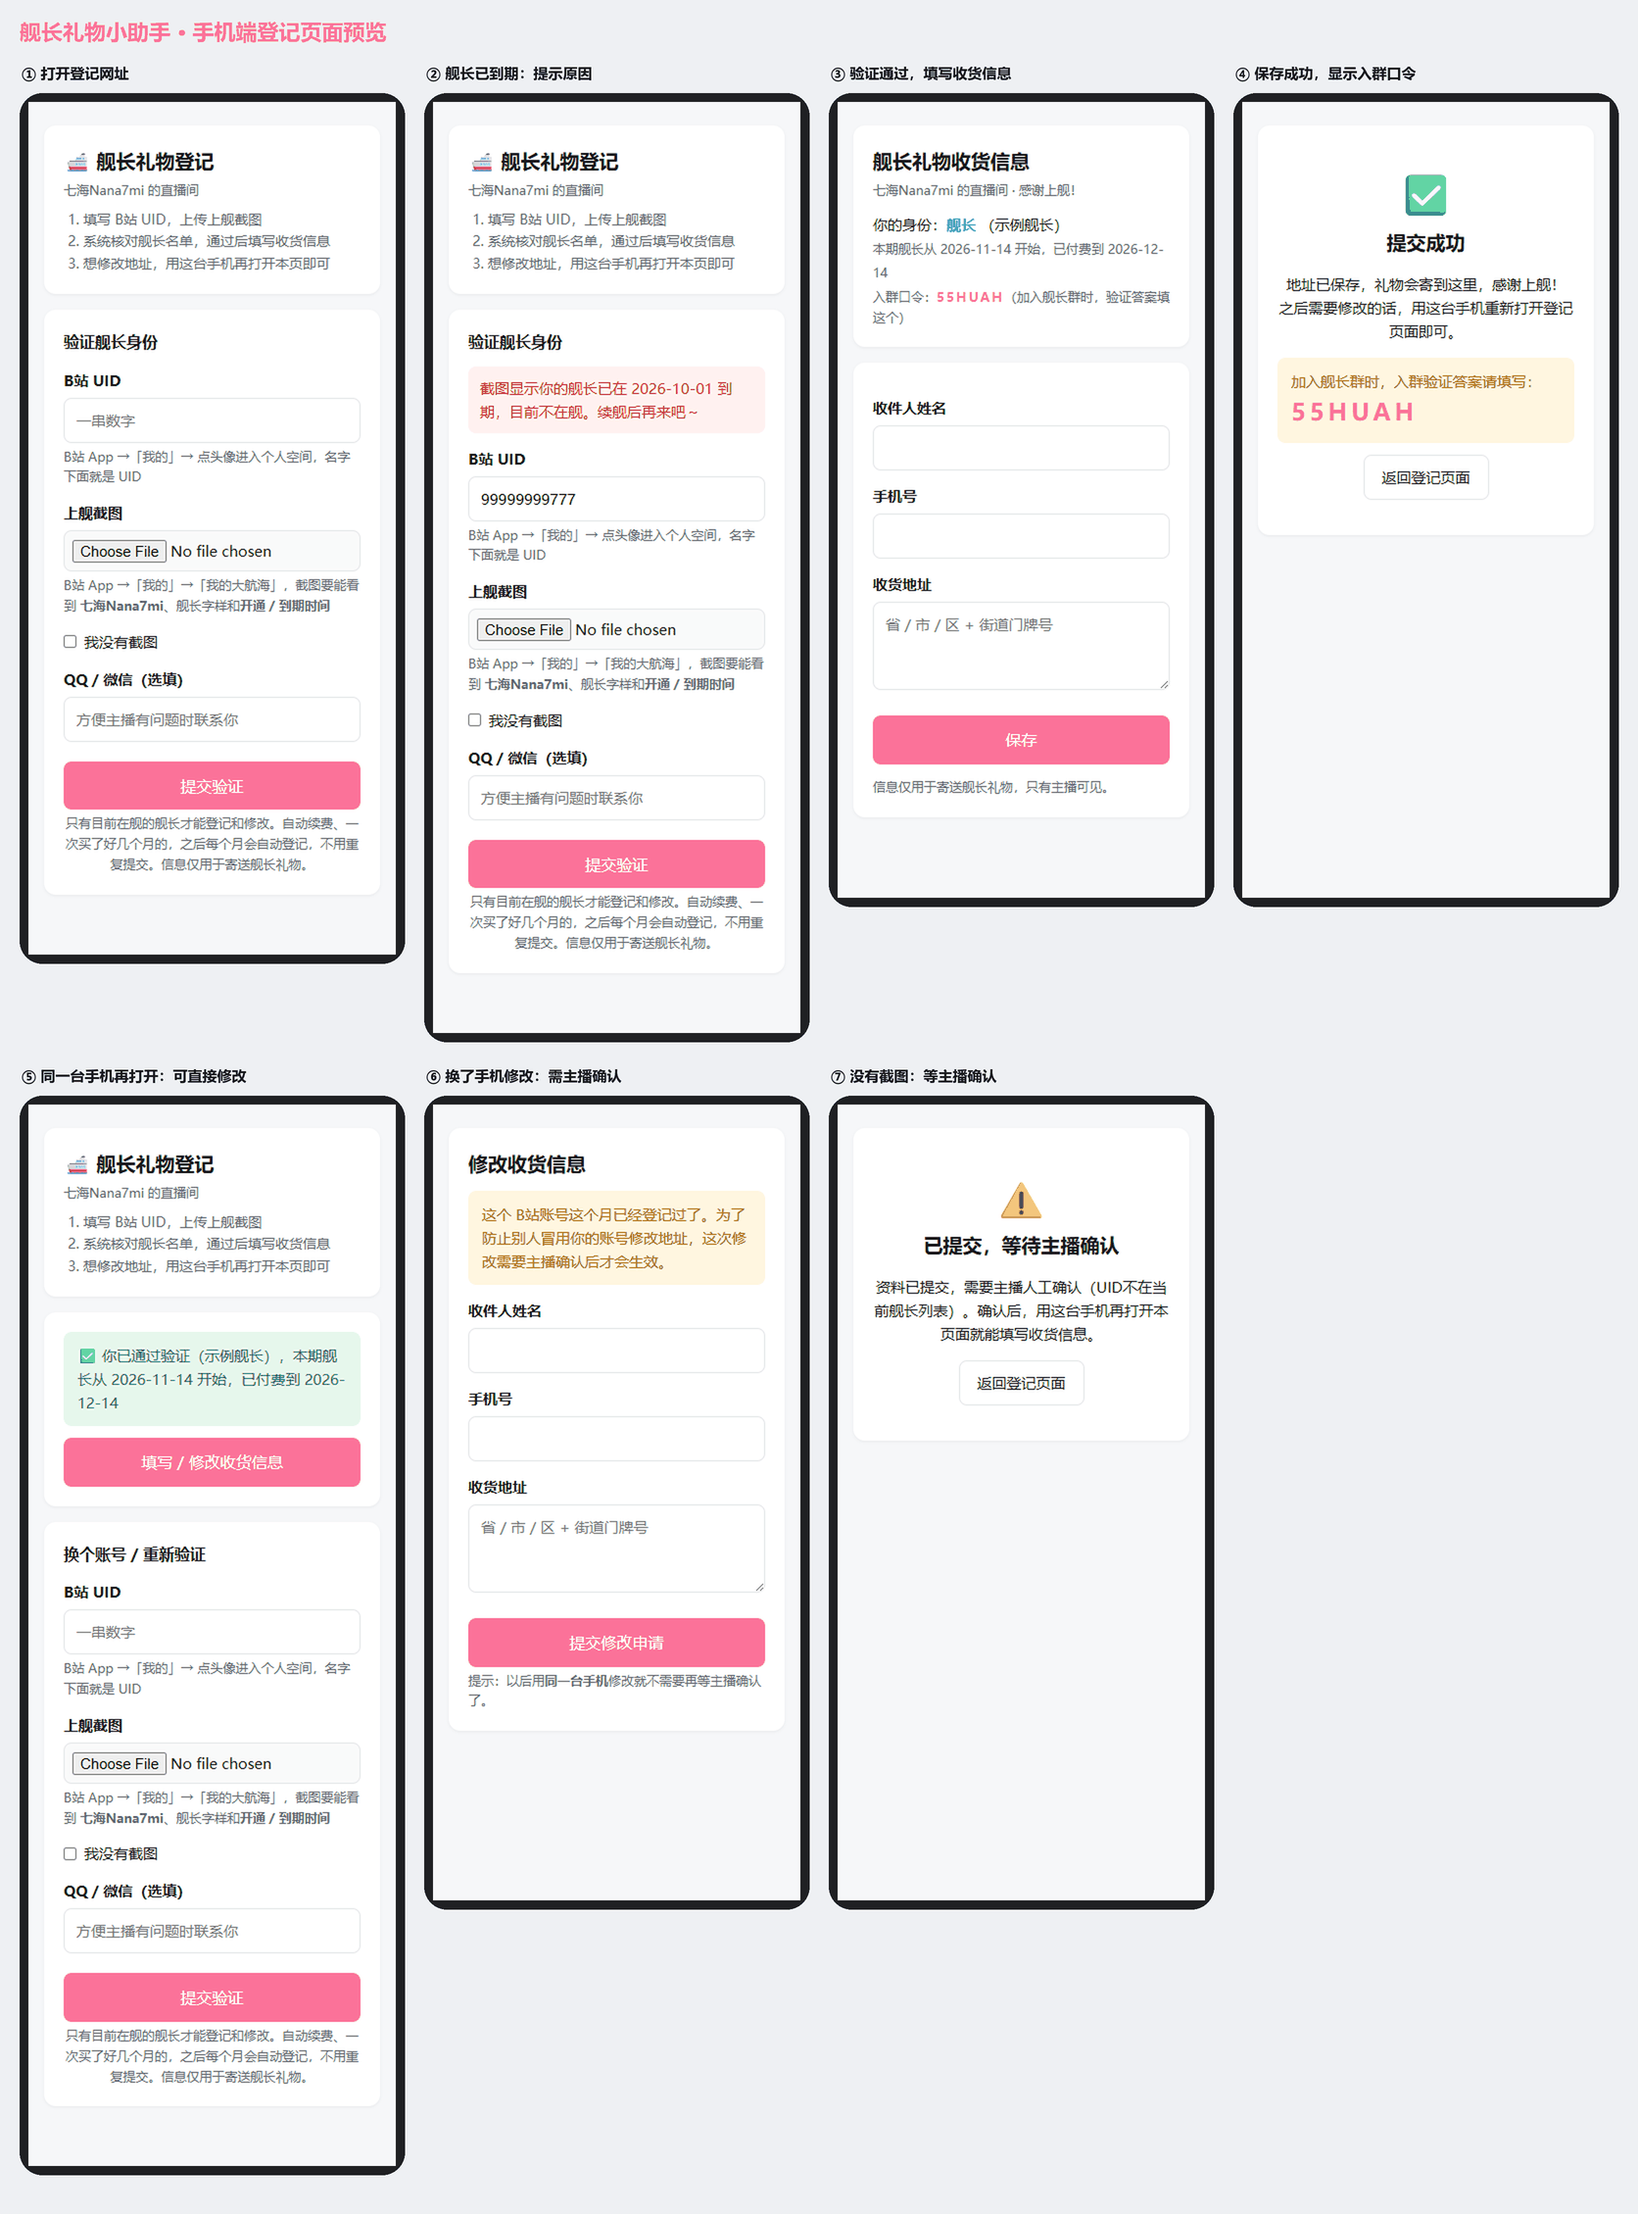
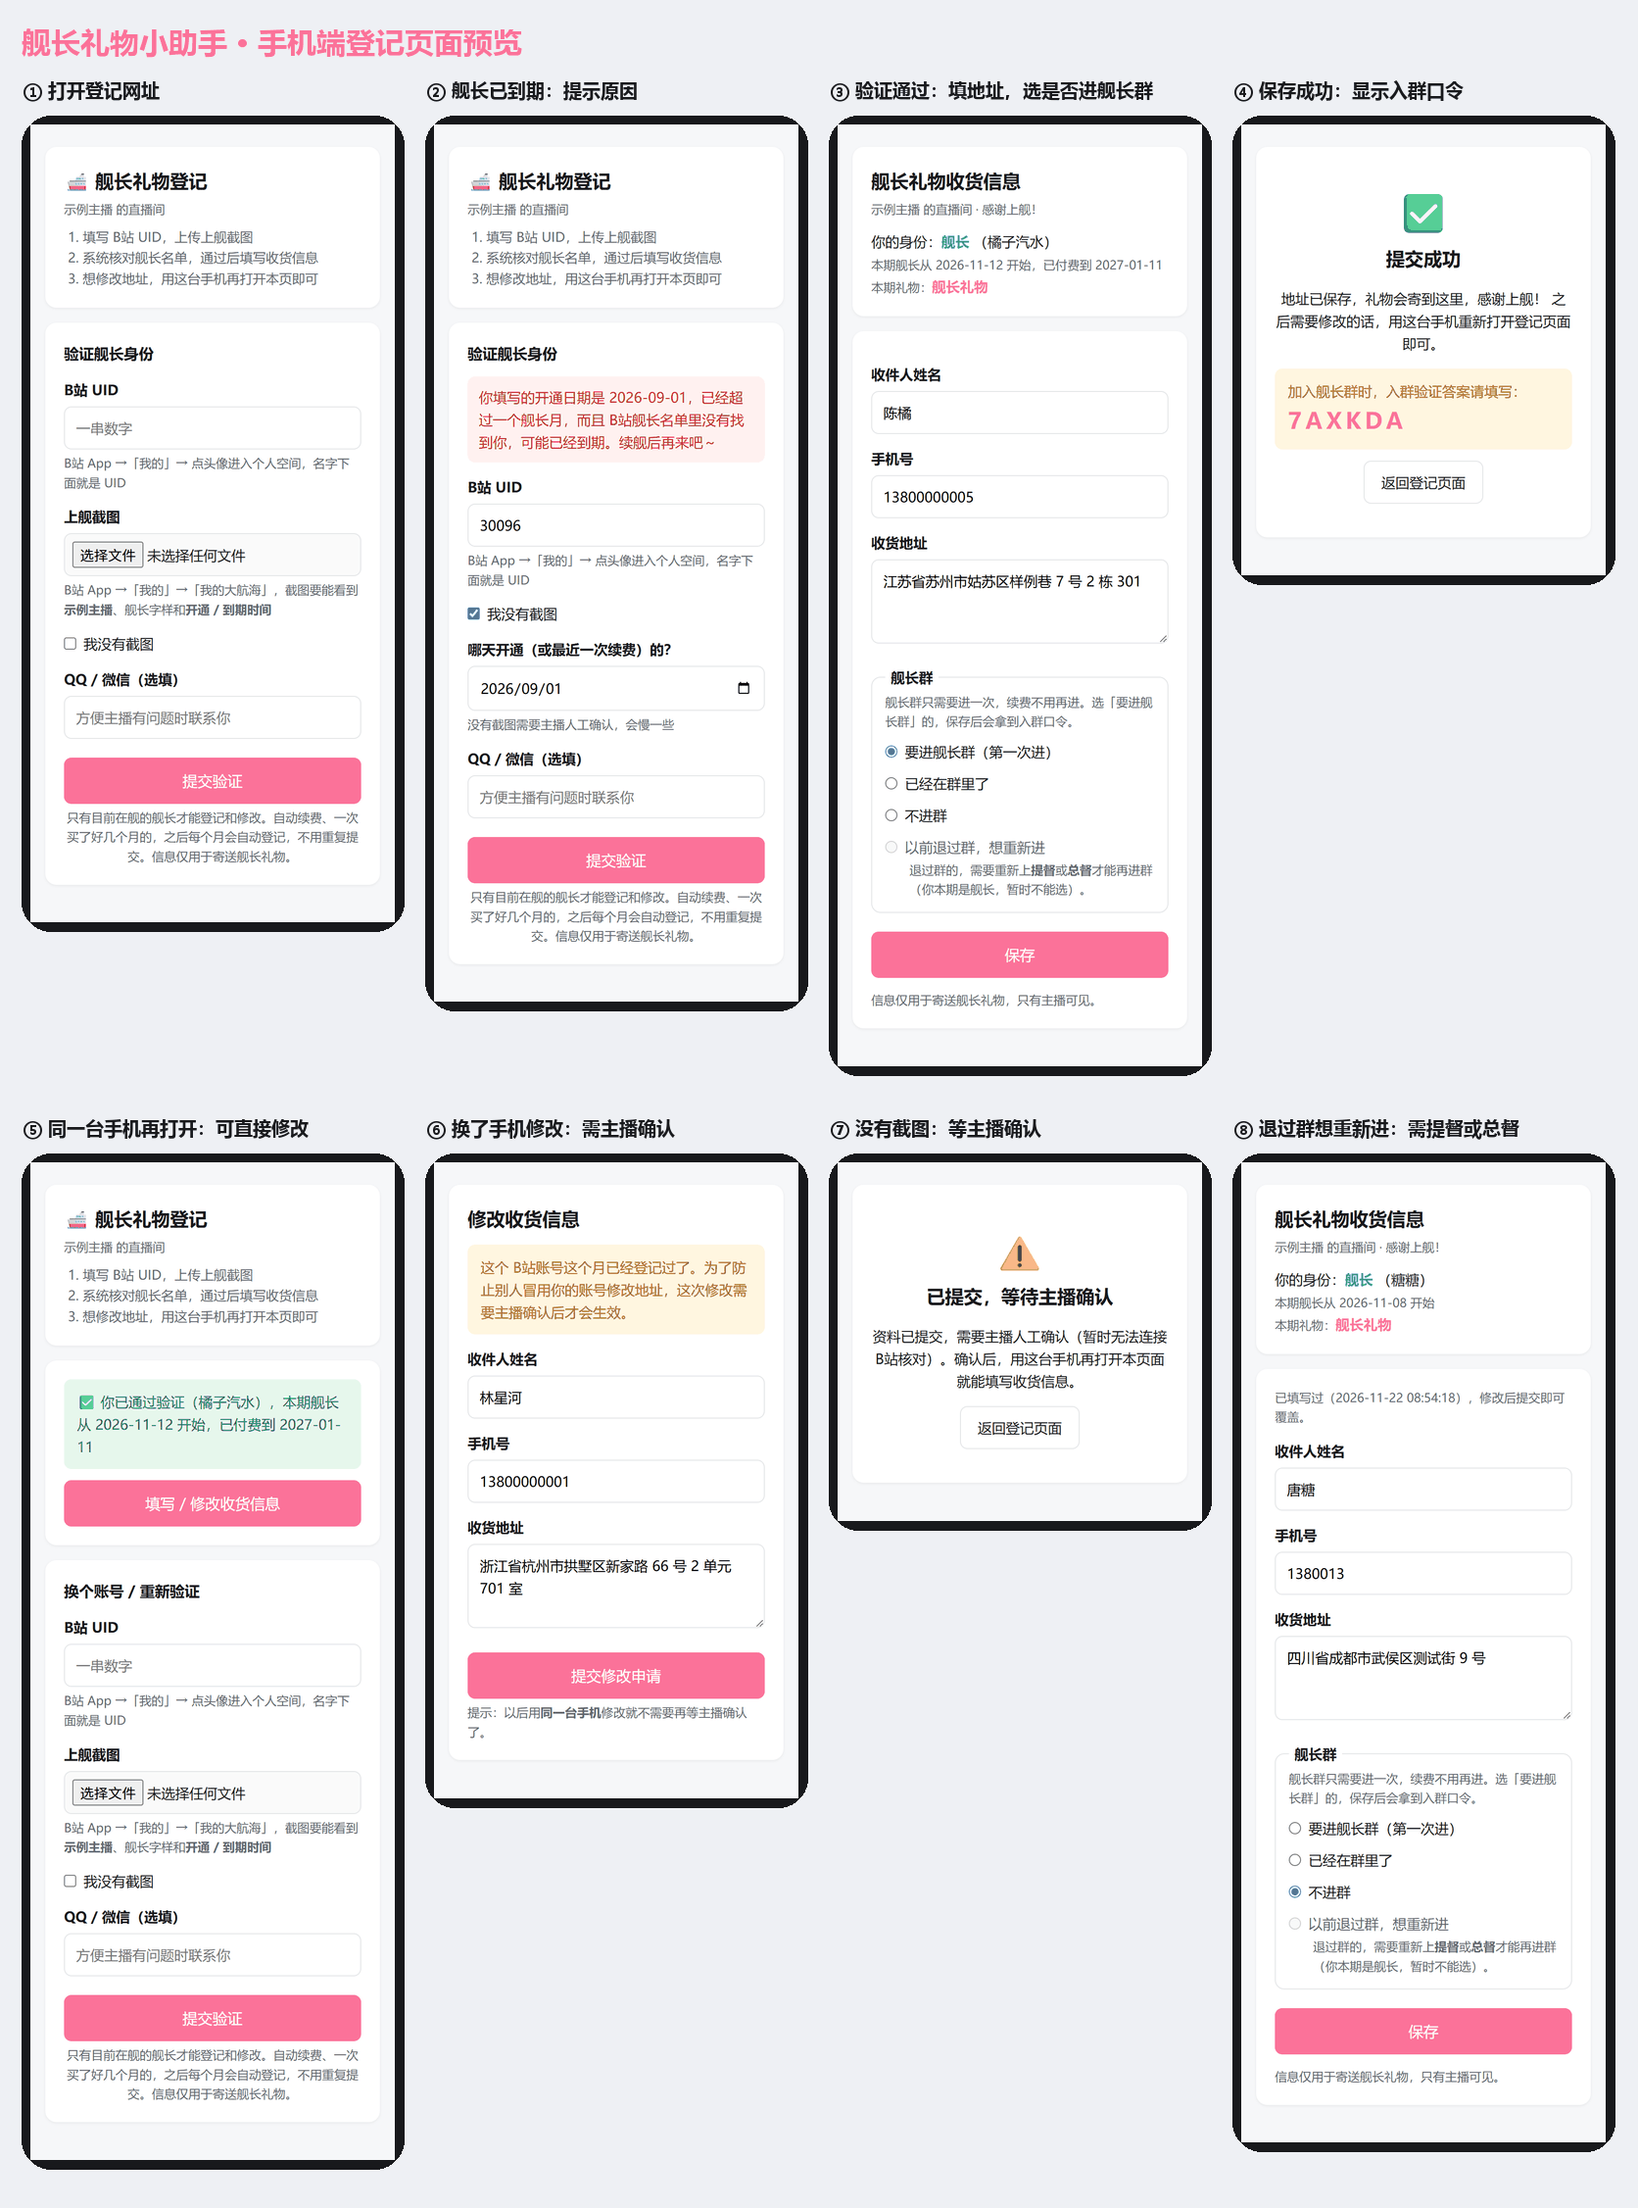
README：更新手机端登记页面预览（含舰长群选项）
重新截图：用「示例主播」和虚构数据，加入「选是否进舰长群」和「退过群想重新进需提督或总督」两个画面。

diff --git a/README.md b/README.md
@@ -45,7 +45,7 @@ https://github.com/user-attachments/assets/5a1fcd63-0944-462a-b905-8c7d06880570
 
 **手机上实际看到的页面**（点图片可以放大）：
 
-![手机端登记页面预览：① 打开登记网址 ② 舰长已到期时的提示 ③ 验证通过后填写收货信息（显示本期和已付费到哪天） ④ 保存成功并显示入群口令 ⑤ 同一台手机再打开可直接修改 ⑥ 换手机修改需主播确认 ⑦ 没有截图时等待主播确认](docs/phone-preview.png)
+![手机端登记页面预览：① 打开登记网址 ② 舰长已到期时的提示 ③ 验证通过后填写收货信息、选择是否进舰长群 ④ 保存成功并显示入群口令 ⑤ 同一台手机再打开可直接修改 ⑥ 换手机修改需主播确认 ⑦ 没有截图时等待主播确认 ⑧ 舰长不能选「退过群，想重新进」（需提督或总督）](docs/phone-preview.png)
 
 ### 自动续费、一次买好几个月的怎么算？
 
